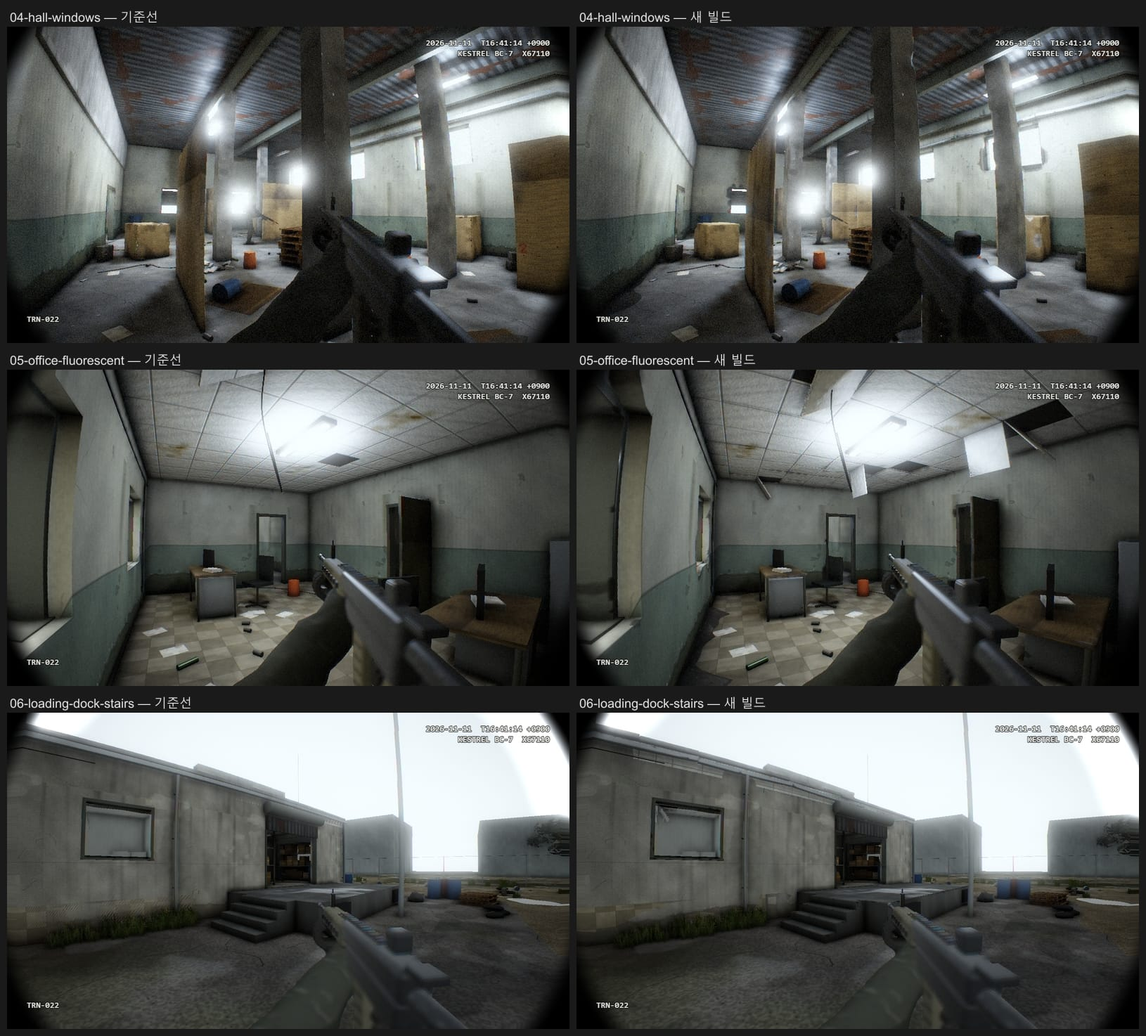
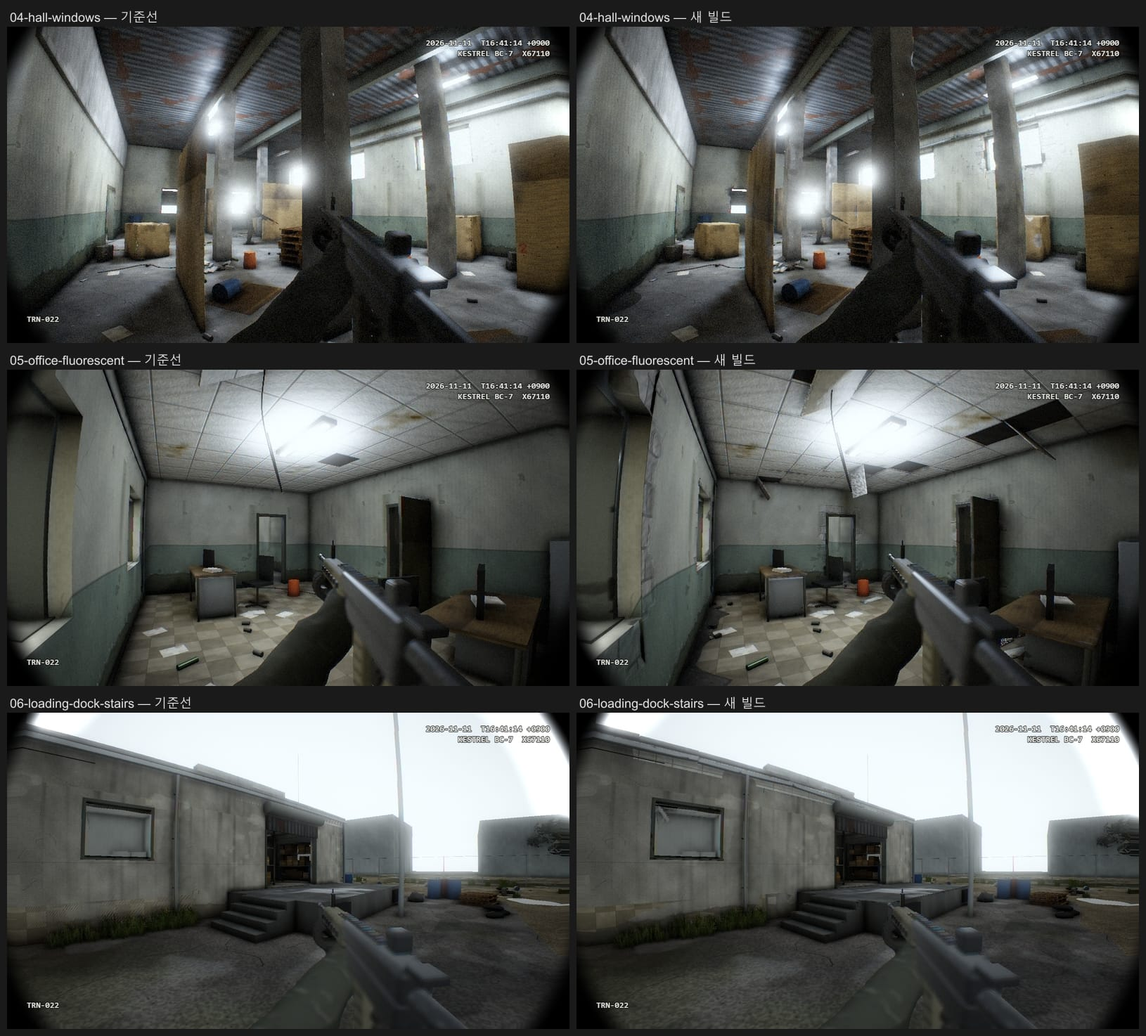
1단계 ② 끝: 파손 규칙(없어진 자리, 드러난 속, 떨어진 것), A/B 73%로 통과 기준 충족, critic 중앙값 4, 전후 시트와 측정값 요약
두 번째 세션. 개구부 둘레의 회벽은 개구부마다 정도가 다르고, 깨진 단면이 비스듬하며, 껍질이 벗겨져 블록이 드러나고, 바닥에 조각이 있다. 늘어진 천장 타일은 뒷면이 어둡고 그림자를 드리운다. 빠진 갓돌은 땅에 떨어져 있다. A/B 라운드 9(묶음 기준선 대비) 쌍별 다수결 73%, 라운드 10(세션 기준선 대비) 63%. critic 18라운드 3, 4, 4 → 4. check 10/10, 성능 목표 충족.

diff --git a/BACKLOG.md b/BACKLOG.md
@@ -11,7 +11,7 @@ CRITIC_LOG.md의 1~14라운드를 분류한 초안을 0단계(2026-11-12)에 CRI
 
 | 종류 | 지적 횟수 | 라운드 | 맡는 묶음 |
 | --- | --- | --- | --- |
-| 형상 | 12 | 4, 5, 6, 7, 9, 10, 12, 13, 14, 15, 16, 17 | 1단계 ② (2026-11-12~13에 형상 도구를 만듦, A/B 67%로 미달. 남은 것은 아래) |
+| 형상 | 12 | 4, 5, 6, 7, 9, 10, 12, 13, 14, 15, 16, 17 | 1단계 ② (2026-11-13 두 번째 세션에서 A/B 73%로 통과 기준 충족. 남은 것은 아래) |
 | 재질 | 11 | 3, 4, 5, 6, 8, 9, 10, 12, 14, 15, 16 | 1단계 ③ |
 | 봇 | 10 | 3, 5, 6, 7, 9, 10, 11, 14, 15, 16 | 2단계 ①, ② |
 | 접지와 빛 | 4 | 3, 7, 8, 12 | 1단계 ① (2026-11-12에 구조를 바꿈. 남은 것은 아래) |
@@ -19,7 +19,7 @@ CRITIC_LOG.md의 1~14라운드를 분류한 초안을 0단계(2026-11-12)에 CRI
 | 나무 | 4 | 3, 6, 13, 15 | 1단계 ④ |
 | 연사 때의 화면 반동 | 5 | 2, 4, 9(촬영 탓), 15, 16 | 2단계 ④ |
 | 총구 화염 | 3 | 7, 10, 12 | 2단계 ④ |
-| 총과 손 | 5 | 1, 2, 15, 16, 17 (16, 17라운드에서 critic 3명 모두의 가장 큰 격차) | 2단계 ③ |
+| 총과 손 | 6 | 1, 2, 15, 16, 17, 18 (16~18라운드에서 critic 3명 모두의 가장 큰 격차) | 2단계 ③ |
 | 원경 | 2 | 14, 15 | 1단계 ④ |
 | 걷는 동안의 화면 움직임 (새 종류) | 1 | 15 | 정해지지 않음 |
 | 성능 끊김 (새 종류) | 3 | 15, 16, 17 | 4단계 ① |
@@ -47,6 +47,12 @@ CRITIC_LOG.md의 1~14라운드를 분류한 초안을 0단계(2026-11-12)에 CRI
   - 굽기에 실패하는 기기(부동소수 렌더 타깃 없음)에서는 가려지지 않은 하늘빛으로 대신한다. 그 화면은 확인하지 않았다(4단계 ②).
 
 ## 형상 (1단계 ②)
+- 1단계 ② 두 번째 세션(2026-11-13)에서 한 것: 파손을 '없어진 자리 + 드러난 속 + 떨어진 것'으로 만드는 규칙. 개구부 둘레의 회벽은 개구부마다 정도(멀쩡함, 보통, 심함)가 다르고, 깨진 단면이 벽 두께 방향으로 비스듬하며, 끝에서부터 껍질이 벗겨져 들어가고, 그 자리에 블록이 드러나고, 밑의 바닥에 회벽 조각과 블록 부스러기가 있다. 늘어진 천장 타일은 뒷면이 어둡고 앞면이 얼룩졌으며 그림자를 드리운다. 빠진 갓돌은 벽 밖 땅에 떨어져 있다.
+- 18라운드와 A/B 라운드 8~10에서 없어진 것: '세 곳이 같은 톱니 모양이고 벽 두께 없이 얇아 종이를 오려 낸 것 같다', '검은 띠', '검은 윤곽선'(라운드 10에서는 세션 기준선 쪽의 문제로 적혔다). '늘어진 천장 타일이 그늘 없는 흰 판으로 떠 있다'(같다). '흰 세로선'(라운드 6부터 없음).
+- 남은 것(두 번째 세션 끝)
+  - 늘어진 천장 타일의 가장자리가 너무 날카로운 평판이다(라운드 9의 판정 1명).
+  - 마당, 하역장 바깥, 실외로 나선 장면은 판정자 모두 '차이를 찾지 못했다'. 바깥 벽과 땅은 이 묶음에서 거의 바뀌지 않았다(바깥 블록 벽에 파손을 넣어 봤지만 미장 무늬에 묻혀 되돌렸다).
+  - 홀 장면에서 합판을 낱장으로 나누면서 붉은 스프레이 숫자가 가려졌을 수 있다(라운드 9에서 기준선이 다수를 얻은 쌍의 근거). 확인하지 않았다.
 - 1단계 ②에서 한 것(2026-11-12~13): 상자를 바로 메시로 만들지 않고 모았다가 형상 도구(src/wear.js)로 한꺼번에 만든다. 드러난 모서리만 닳게 깎고(이 빠짐, 큰 깨짐, 닳은 자리의 밝기), 큰 면에 완만한 굴곡을 주고, 윤곽을 바꾼다: 합판 낱장의 휨과 이음, 갓돌 토막의 들뜸과 빠짐, 홈통과 배관의 처짐, 문짝의 벌어짐, 걸레받이 토막, 소품의 비뚤어짐, 종이 상자의 눌림, 방호벽의 비탈면, 천장 타일의 처짐과 빠짐, 개구부 둘레의 떨어진 회벽, 마당 흙의 솟음과 포장 경계, 벽 밑동의 흙 턱. 구조는 PLAN.md.
 - 17라운드와 A/B 라운드 5~7에서 없어진 것: 지붕선이 자로 그은 듯하다(입구 장면에서 판정자 3명이 새 빌드의 '들뜬 함석, 어긋난 끝선'을 골랐다). 문틀과 창 개구부의 윤곽이 매끈하다(판정자 2명이 '회벽이 두께를 드러내며 떨어져 나간' 새 빌드를 골랐다). 합판이 휨도 이음매도 없는 반듯한 판이다(라운드 5, 6에서 '판 이음매가 보여 실제 판재로 읽힌다'). 천장 격자가 멀쩡해 세트 같다(라운드 6, 7).
 - 남은 것
@@ -89,10 +95,12 @@ CRITIC_LOG.md의 1~14라운드를 분류한 초안을 0단계(2026-11-12)에 CRI
 - 15라운드: 걷는 동안에도 쏘는 동안에도 총이 화면의 같은 자리, 같은 각도에 붙어 있다(critic 3명 모두, 연속 프레임에서). 총과 팔이 손이나 표면 질감이 읽히지 않는 검은 덩어리이고, 정지 화면 11장 전부에서 같은 자리와 같은 각도에 놓여 있다. 레퍼런스는 장갑 낀 손과 총이 카메라와 따로 움직이며 화면 안에서 자리를 크게 바꾼다(ab-judge 판정 1의 공통 격차). 1라운드의 지적이 그대로 남아 있었다.
 - 16라운드: critic 3명 모두 가장 큰 격차로 꼽았다. 총과 팔이 손가락도 흠집도 반사광도 없는 무광 회색의 각진 덩어리이고, 손은 손가락이 나뉘지 않은 덩어리, 소매는 주름 없는 원통이다. 빌드 11칸 모두에서 총구가 화면의 같은 지점(가로 55~60%)에 같은 기울기와 크기로 있다. 레퍼런스는 손과 총이 화면의 삼분의 일 넘게 차지하고, 렌즈 가까이에서 휘거나 흐려지며, 장면마다 자리와 각도가 다르다. ab-judge 9명 모두가 공통 격차에 총과 팔을 적었다.
 - 16라운드에 새로 나온 것: 빛을 바로잡은 뒤로 총이 밝은 회색으로 떠서 플라스틱 모형처럼 보인다(ab-judge 4명). 기준선에서는 검게 묻혀 있었다. 원인은 빛이 아니라 재질 값이다. steel(금속성 0.55)과 worn(0.7)이 중간 회색 금속으로 잡혀 있어 방의 밝기를 그대로 비춘다. 이전에는 실내에서 환경 반사를 0에 가깝게 눌러 가려져 있었다. 실제 소총의 검은 마감은 비금속 도장에 가깝다(반사율 4%쯤, 어두운 바탕). 2단계 ③에서 재질 값을 다시 잡는다. 이번 세션에서는 건드리지 않았다.
+- 18라운드: critic 3명 모두 다시 가장 큰 격차로 꼽았다. 총이 주변보다 밝게 떠 보이고(어두운 실내와 흐린 실외에서 같은 톤), 렌즈 바로 앞인데도 배경과 같은 선명도다. ab-judge 9명(라운드 8~10) 모두 공통 격차로 적었다.
 - 17라운드: critic 3명 모두, ab-judge 6명(라운드 6, 7) 모두 가장 큰 격차 또는 공통 격차로 꼽았다. 칸마다 같은 자리, 같은 각도, 같은 선명도이고, 레퍼런스처럼 렌즈 앞에서 초점이 나가거나 번지거나 화면 가장자리에서 잘리지 않는다. 걷고 돌 때도 8프레임 내내 몇 화소 안에서만 움직인다. 손가락과 장갑이 보이지 않는 매끈한 소매. critic 1명은 '총을 가리면 판정이 어려워지는 칸도 있다'고 적었다.
 - 지금 구현: weapons.js의 절차 모델이다. 둥근 상자와 원기둥을 조합한다. 화면 공간 차폐는 0.7 m보다 가까운 화소를 건너뛰므로 총과 손에는 틈새 음영이 없다.
 
 ## 연사 때의 화면 반동 (2단계 ④)
+- 18라운드: 연사 묶음의 1과 5, 2와 6, 3과 7, 4와 8 프레임의 시점, 총 위치, 탄피 위치가 거의 똑같다(critic 3명 모두, ab-judge 여럿).
 - 16라운드: 연사 묶음의 앞 0.5초와 뒤 0.5초가 섬광, 시점, 총 자세까지 거의 같은 구도로 되풀이된다(critic 1, ab-judge 여럿). 사격 중에도 배경이 거의 튀지 않는다(critic 3). 15라운드의 지적과 같다.
 - 15라운드: 연사 묶음의 두 발사 프레임에서 총 위치와 주황빛이 거의 같아 반동이 되풀이되어 보인다(판정 2). 8장 내내 방아쇠를 누른 새 묶음에서 나온 지적이다.
 - 지적: 연사 때 화면이 거의 움직이지 않는다(2, 4). 연사 후반 프레임에서 시점이 멈춘다(9).

diff --git a/docs/shots/phase1-2-shape/summary.md b/docs/shots/phase1-2-shape/summary.md
@@ -1,34 +1,35 @@
 # 1단계 ② 닳은 모서리와 불규칙한 실루엣을 만드는 형상 도구: 전후 시트와 측정값
 
-2026-11-12~13. 기준선은 세션을 시작할 때의 빌드(커밋 dab4456, 1단계 ①의 끝), 새 빌드는 끝 평가를 받은 커밋 ceb3b51의 빌드다(이 폴더와 함께 커밋된 빌드와 같다). 레퍼런스가 들어간 이미지는 없다.
+2026-11-12~13, 세션 두 번. 기준선은 묶음을 시작할 때의 빌드(커밋 dab4456, 1단계 ①의 끝), 새 빌드는 두 번째 세션의 끝 평가를 받은 커밋 57f53ab의 빌드다(이 폴더와 함께 커밋된 빌드와 같다). 레퍼런스가 들어간 이미지는 없다.
 
 ## 파일
 - `before-after-1.jpg` ~ `4.jpg`: 정지 화면 11장. 왼쪽이 기준선, 오른쪽이 새 빌드다.
 - `before-after-5.jpg` ~ `8.jpg`: 연속 프레임 4묶음(1초 8장). 위가 기준선, 아래가 새 빌드다.
 
 ## 무엇이 달라졌나
-- 상자를 바로 메시로 만들지 않고 모았다가 형상 도구(src/wear.js)로 한꺼번에 만든다. 이웃 상자를 보고 드러난 모서리만 닳게 깎는다(이 빠짐, 큰 깨짐, 깨진 자리의 밝기 변화).
-- 윤곽을 바꾼다: 문과 창 둘레의 회벽이 덩어리째 떨어져 나가 있고, 지붕 갓돌이 들뜨거나 빠져 있고, 홈통과 배관이 처져 있다. 천장 타일은 처지고 몇 장은 빠지거나 매달려 있다. 합판 가림막은 1.22 m 낱장으로 나뉘어 휘어 있고, 문짝은 조금 벌어져 있고, 바닥의 소품은 줄 맞춰 놓이지 않았다. 방호벽은 비탈면이다.
-- 마당 흙은 군데군데 솟고 포장 경계를 덮는다. 벽 밑동에는 흙과 먼지의 턱이 있다.
-- 충돌 상자, 빛 굽기, 무작위 배치는 바뀌지 않았다. 자동 플레이와 봇의 움직임은 기준선과 같다.
+- 상자를 바로 메시로 만들지 않고 모았다가 형상 도구(src/wear.js)로 한꺼번에 만든다. 이웃 상자를 보고 드러난 모서리만 닳게 깎는다.
+- 윤곽: 지붕 갓돌이 들뜨거나 빠져 있고(빠진 것은 땅에 떨어져 있다), 홈통과 배관이 처져 있다. 천장 타일은 처지고 몇 장은 빠지거나 매달려 있거나 바닥에 깨져 있다. 합판 가림막은 낱장으로 나뉘어 휘어 있고, 문짝은 조금 벌어져 있고, 바닥의 소품은 줄 맞춰 놓이지 않았다. 방호벽은 비탈면이다. 마당 흙은 군데군데 솟고 포장 경계를 덮는다. 벽 밑동에는 흙과 먼지의 턱이 있다.
+- 파손(두 번째 세션): 문과 창 둘레의 회벽이 개구부마다 다른 정도로 떨어져 나가 있다. 깨진 단면은 비스듬하고, 끝에서부터 껍질이 벗겨져 들어가 블록이 드러나고, 밑의 바닥에 조각이 흩어져 있다.
+- 충돌 상자, 빛 굽기의 벽, 무작위 배치는 바뀌지 않았다. 자동 플레이와 봇의 움직임은 기준선과 같다.
 
 ## 측정값
-| 항목 | 기준선 | 새 빌드 |
+| 항목 | 기준선 (dab4456) | 새 빌드 (57f53ab) |
 | --- | --- | --- |
 | `npm run check` | 10/10 통과 | 10/10 통과, 종료 코드 0 |
-| 프레임 시간 high (1080p) | 평균 3.56 ms, 95퍼센타일 5.00 ms, 최악 27.1 ms (2026-11-12 22:52) | 평균 3.17 ms, 95퍼센타일 4.50 ms, 최악 8.9 ms (2026-11-13 08:24) |
-| 프레임 시간 medium | 평균 3.37 ms, 95퍼센타일 4.60 ms | 평균 3.00 ms, 95퍼센타일 4.40 ms |
-| 프레임 시간 low | 평균 3.07 ms, 95퍼센타일 4.00 ms | 평균 3.01 ms, 95퍼센타일 4.50 ms, 최악 21.5 ms |
-| 성능 목표 (95퍼센타일 16.7 ms 이하) | 충족 | 충족. RTX 5060 Ti(데스크톱), 헤드리스 D3D11. 두 빌드를 다른 시각에 쟀고 차이는 측정 잡음 안이다. 중급 노트북 GPU에 대해서는 추정이다 |
-| 형상 도구가 만든 삼각형 | 없음(상자 6면) | high 약 92만, medium 72만, low 11만 |
-| 장면별 화소 차이 (기준선 대비, 0~255) | | 0.7 (실외로 나선 장면) ~ 6.2 (사무실). 8 넘게 다른 화소 1.3~16.3% |
+| 프레임 시간 high (1080p) | 평균 3.56 ms, 95퍼센타일 5.00 ms (2026-11-12 22:52) | 평균 2.03 ms, 95퍼센타일 3.50 ms, 최악 10.7 ms (2026-11-13 09:10) |
+| 프레임 시간 medium | 평균 3.37 ms, 95퍼센타일 4.60 ms | 평균 1.92 ms, 95퍼센타일 3.10 ms |
+| 프레임 시간 low | 평균 3.07 ms, 95퍼센타일 4.00 ms | 평균 1.80 ms, 95퍼센타일 2.90 ms |
+| 성능 목표 (95퍼센타일 16.7 ms 이하) | 충족 | 충족. RTX 5060 Ti(데스크톱), 헤드리스 D3D11. 두 빌드를 다른 시각에 쟀고, 같은 빌드도 측정마다 2~3.5 ms를 오가므로 평균의 차이는 측정 잡음 안이다. 중급 노트북 GPU에 대해서는 추정이다 |
+| 형상 도구가 만든 삼각형 | 없음(상자 6면) | high 126만, medium 94만, low 10만 |
+| 장면별 화소 차이 (기준선 대비, 0~255) | | 0.5 (실외로 나선 장면) ~ 6.4 (사무실). 8 넘게 다른 화소 1.2~19% |
 
 ## 판정
 | | 결과 |
 | --- | --- |
-| A/B 라운드 5 (중간 1, 커밋 60fc575) | 쌍별 다수결 47%. 벽 이음의 실틈으로 하늘이 비친 흰 세로선 결함 때문에 진 쌍이 있었다 |
-| A/B 라운드 6 (중간 2, 커밋 0cb67f2) | 쌍별 다수결 43%. 흰 세로선 지적은 사라졌다. 매달린 천장 타일이 흰 판으로 떠 보인다는 지적 |
-| A/B 라운드 7 (끝, 커밋 ceb3b51) | 판정별 50%, 63%, 70%. 합친 비율 61%. **쌍별 다수결 67%** (새 빌드 5쌍, 기준선 0쌍, 갈림·구분 안 됨 10쌍). 통과 기준 70% **미달** |
-| critic 17라운드 | 점수 4, 4, 5 → 중앙값 4 (16라운드 3). 식별 정답률 100%. 가장 큰 격차는 셋 다 총과 팔 |
+| A/B 라운드 5~7 (첫 세션) | 쌍별 다수결 47% → 43% → 67%. 미달 |
+| A/B 라운드 8 (두 번째 세션 중간, 세션 기준선 대비) | 47%. 개구부의 파손이 가벼워진 문이 '깔끔하게 잘린 개구부'로 보였다 |
+| A/B 라운드 9 (끝, 묶음 기준선 대비) | 판정별 77%, 77%, 73%. 합친 비율 76%. **쌍별 다수결 73%** (새 빌드 8쌍, 기준선 1쌍, 갈림·구분 안 됨 6쌍). 통과 기준 70% **충족** |
+| A/B 라운드 10 (끝, 세션 기준선 대비) | 쌍별 다수결 63% (새 빌드 5쌍, 기준선 1쌍) |
+| critic 18라운드 | 점수 3, 4, 4 → 중앙값 4 (16라운드 3, 17라운드 4). 식별 정답률 100%. 가장 큰 격차는 셋 다 총과 팔 |
 
-세션은 시간 상한(01:36)이 먼저 지나 마감했다. 자세한 기록은 PROGRESS.md, CRITIC_LOG.md, BACKLOG.md에 있다.
+자세한 기록은 PROGRESS.md, CRITIC_LOG.md, BACKLOG.md에 있다.

diff --git a/PROGRESS.md b/PROGRESS.md
@@ -323,3 +323,35 @@
 - 파손된 회벽 끝을 0.7 m씩 떼어 4~5 cm 격자로 만들자 회벽 삼각형이 9.7만 개에서 40만 개로 늘었다(전체 92만 → 118만). 떼어 내지 않고 벽 전체를 촘촘하게 하면 약 70만 개가 더 든다고 계산했다. 1080p 프레임 시간은 high 평균 2.13 ms, p95 3.40 ms로 목표 안이다.
 - 바깥 블록 벽(미장)의 개구부에도 같은 파손을 넣어 봤다. 마당과 입구 화면에서 미장 무늬에 묻혀 거의 보이지 않았고 삼각형만 23만 개 늘어서 되돌렸다.
 - 격자선을 정렬하고 너무 가까운 선을 지우는 일을 모든 상자에서 하게 했다가 되돌렸다. 얇은 상자(벽에 붙은 3 mm 철판 등)에서 모서리 가까이의 선이 지워지자, 깎인 모서리의 기운 법선이 판 가운데까지 보간되어 복도 벽의 철판 한가운데에 밝은 반사가 생겼다. 판정자 1명이 "벽의 판이 스스로 빛나는 것처럼 떠 보인다"고 적은 것이 이것이다. 지금은 파손 구역이 있거나 얇지 않은 상자만 지운다.
+
+### 중간 평가 (A/B 라운드 8, 08:56~09:00, 세션 기준선 p1-shape2 대비)
+- 판정별 53%, 47%, 47%. 쌍별 다수결 47%(새 빌드 1쌍, 기준선 2쌍, 갈림·구분 안 됨 12쌍).
+- 시트를 직접 열어 어느 쪽이 새 빌드인지 확인했다(정답 키는 열지 않았다). 이긴 쌍은 사무실이다. 늘어진 타일이 줄고, 남은 것은 뒷면이 어둡고 앞면이 얼룩져 '광원 위치와 맞는다'는 근거였다. 진 두 쌍은 문간과 복도의 문이다. 파손 정도를 개구부마다 달리하면서 그 문들이 '보통'이 되어 깊게 떨어진 덩어리가 줄었고, 판정자는 기준선의 '불규칙하게 떨어져 나간 회벽'을 골랐다.
+- 그래서 바꾼 것: 정도의 분포를 무겁게 했다(멀쩡함 15%, 보통 30%, 심함 55%). 판정 시트 크기에서 읽히는 것은 깊게 떨어진 덩어리이고, 1~2 cm 껍질 벗겨짐은 거의 읽히지 않는다. 껍질 벗겨짐은 개구부 끝에 붙어서 안쪽으로 벗겨져 들어가게 바꿨다(벽 가운데 떨어진 얼룩은 만들지 않는다). 드러난 블록의 줄눈을 블록보다 어둡게 했다(밝은 줄눈은 타일 격자처럼 보였다).
+- 이 평가에서 판정자 1명이 '벽의 판이 스스로 빛나는 것처럼 떠 보인다'고 적은 것은 형상 도구의 결함이었다(위 '구현 중 확인한 것').
+
+### 끝 평가 (09:12~09:19, 평가받은 빌드는 커밋 57f53ab)
+- `npm run check`: 10/10 통과(09:20, 마지막 보고에 출력을 붙였다).
+- `npm run perf`(판정자를 부르기 전, 09:10): high 평균 2.03 ms, p95 3.50, 최악 10.70. medium 1.92, 3.10, 6.80. low 1.80, 2.90, 6.30. 목표 충족. 데스크톱 GPU(RTX 5060 Ti)에서 잰 값이라 중급 노트북 GPU에서의 충족은 추정이다. 지난 세션 끝(high 3.17 ms)보다 평균이 낮은 것은 측정 사이의 차이다(같은 빌드도 측정마다 2~3.5 ms를 오간다).
+- 형상 도구 삼각형: high 126만, medium 94만, low 10만(지난 세션 끝 92만, 72만, 11만).
+- A/B 라운드 9(묶음 기준선 p1-shape 대비, 통과 기준): 판정별 77%, 77%, 73%, 합친 비율 76%, **쌍별 다수결 73%**(새 빌드 8쌍, 기준선 1쌍, 갈림·구분 안 됨 6쌍).
+- A/B 라운드 10(세션 기준선 p1-shape2 대비): 판정별 67%, 63%, 60%, 쌍별 다수결 63%(새 빌드 5쌍, 기준선 1쌍).
+- critic 18라운드: 3, 4, 4 → 중앙값 4(17라운드와 같다). 식별 정답률 100%. 가장 큰 격차는 셋 다 총과 팔.
+
+### 결과
+- 통과 기준(묶음 기준선 대비 A/B ≥ 70%): **충족**(73%). check 10/10, 성능 목표 충족. 세션 시작 08:41, 끝 09:25(상한 12:41 안).
+- 이번 세션에 바꾼 것: 형상 도구의 파손 규칙(없어진 자리 + 드러난 속 + 떨어진 것)과 그 규칙을 쓰는 곳(개구부 둘레, 늘어진 천장 타일, 빠진 갓돌). 지난 세션의 두 지적('종이를 오려 낸 듯한 개구부', '그늘 없는 흰 판')은 라운드 10에서 새 빌드를 고르는 근거로 뒤집혔다.
+- 단계의 승인은 사용자가 한다. 1단계 ③으로 넘어갈지는 ROADMAP.md의 표를 고칠 때 정해진다.
+
+### 제안 (SPEC.md, ROADMAP.md, PLAYTEST.md, .claude/는 고치지 않았다)
+1. 지난 세션의 제안 1(형상과 재질처럼 작은 변화는 판정 시트 크기에서 보이지 않으니 가까이 찍은 장면을 A/B에 더하자)은 그대로 유효하다. 이번 세션에서도 판정자가 고른 근거는 화면에서 수십 화소 이상인 변화(벽돌이 드러난 자리, 바닥의 부스러기, 늘어진 타일)뿐이었다. 1단계 ③(재질)의 노멀·거칠기 맵은 이보다 작은 변화라 지금 시트로는 신호가 거의 나오지 않을 것으로 본다.
+2. 총과 팔이 16~18라운드 내내 critic 3명 모두의 가장 큰 격차다. 1단계 ③, ④보다 2단계 ③(손과 총)을 먼저 하면 critic 점수가 움직일 가능성이 크다(1단계 ①의 제안 1과 같다).
+
+### 다음 세션이 알아둘 것
+- 파손 규칙은 level.js의 erodeWarp(없어진 자리와 껍질 벗겨짐, coreAt), zoneSev(개구부마다 정도), rubble(떨어진 조각)이 맡는다. 드러난 속은 aWear 6.5로 표시하고 materials.js가 1.2보다 큰 값을 블록 무늬로 칠한다. 닳음 표시는 -2~1 범위를 지켜야 한다(넘으면 드러난 속과 섞인다).
+- 바깥 블록 벽(미장)의 개구부에는 파손을 넣지 않았다(미장 무늬에 묻혀 보이지 않고 삼각형만 23만 개 늘었다).
+- 얇은 상자에서 격자선을 지우면 깎인 모서리의 법선이 판 가운데까지 번져 밝은 반사가 생긴다. 격자선 정리는 파손 구역이 있거나 얇지 않은 상자만 한다.
+- 남은 지적: 늘어진 천장 타일의 가장자리가 너무 날카로운 평판이다(라운드 9의 판정 1명). 홀 장면에서 합판을 낱장으로 나누면서 붉은 스프레이 숫자가 가려졌을 수 있다(라운드 9에서 기준선이 다수를 얻은 유일한 쌍의 근거). 확인하지 않았다.
+
+### 끝난 시각
+- 2026-11-13 09:25

diff --git a/CRITIC_LOG.md b/CRITIC_LOG.md
@@ -106,3 +106,25 @@
 
 - 점수 중앙값이 3에서 4로 올랐다. 세 critic 모두 가장 큰 격차로 총과 팔을 꼽았다(16라운드와 같다). 판정 1은 '총을 가리면 판정이 어려워지는 칸도 있다'고 적었다. 식별 정답률은 100%로 그대로다.
 - 측정값에 대해 새로 나온 것: 탄피가 콘크리트에 떨어지는 소리의 에너지가 4 kHz 대역 하나에 몰려 순음에 가깝고, 금속 바닥 발소리에 4 kHz 이상 성분이 거의 없다(critic 2명). low 품질 실행에서 21.5 ms짜리 프레임이 한 번 있다(critic 2명). 프레임 시간이 데스크톱 GPU에서 잰 값이라 노트북 목표에는 추정치라는 지적(critic 3명)은 16라운드와 같다.
+
+## 1단계 ② 두 번째 세션 (2026-11-13)
+통과 기준은 묶음의 기준선 'p1-shape' 대비 쌍별 다수결 70%. 세션 기준선은 'p1-shape2'(커밋 ceb3b51, 지난 세션의 끝)다. 시작 평가는 17라운드와 A/B 라운드 7을 그대로 쓴다.
+
+### A/B
+| A/B 라운드 | 시점 | 비교 | 판정별 새 빌드 선호 | 합친 비율 | 쌍별 다수결 | 메모 |
+| --- | --- | --- | --- | --- | --- | --- |
+| 8 | 중간 (커밋 '작업 저장 8') | 세션 기준선 p1-shape2 대 새 빌드 | 53%, 47%, 47% | 49% (45개 중 새 빌드 6, 기준선 7, 구분 안 됨 32) | 47% (새 빌드 1쌍, 기준선 2쌍, 구분 안 됨·갈림 12쌍) | 15쌍 중 12쌍이 '구분 안 됨'(바뀐 장면이 적다). 새 빌드가 이긴 쌍은 사무실(늘어진 타일이 그늘지고 얼룩져 광원과 맞는다). 진 쌍은 문간과 복도: 개구부마다 파손 정도를 달리하면서 그 두 문이 '보통'이 되어 '깔끔하게 잘린 개구부'로 보였다. 판정 1명은 문짝 옆의 '흐린 육각형 얼룩'(벽 가운데 떨어진 껍질 벗겨짐)을 적었다 |
+| 9 | 끝 (커밋 57f53ab) | 묶음 기준선 p1-shape 대 새 빌드 | 77%, 77%, 73% | 76% (45개 중 새 빌드 25, 기준선 2, 구분 안 됨 18) | **73%** (새 빌드 8쌍, 기준선 1쌍, 구분 안 됨·갈림 6쌍) | 통과 기준(70%) **충족**. 근거는 모두 표면의 낡음과 손상이었다: 문과 창 둘레의 회벽이 떨어져 벽돌이 드러남, 바닥의 잔해, 빠지고 매달린 천장 타일, 들쭉날쭉한 지붕 끝선, 합판의 이음매, 벗겨진 벽. 기준선 쪽이 다수를 얻은 1쌍은 홀 장면으로 보인다(근거: 합판의 붉은 스프레이 숫자). 연속 프레임의 움직임과 노출은 세 판정 모두 '같다' |
+| 10 | 끝 (커밋 57f53ab) | 세션 기준선 p1-shape2 대 새 빌드 | 67%, 63%, 60% | 63% (45개 중 새 빌드 15, 기준선 3, 구분 안 됨 27) | 63% (새 빌드 5쌍, 기준선 1쌍, 구분 안 됨·갈림 9쌍) | 이번 세션의 변경만 견준 값(통과 기준으로 쓰지 않는다). 근거: 개구부 둘레가 '벽돌 줄을 따라 계단처럼 깨지고' 바닥에 부스러기가 있다(세션 기준선 쪽은 '매끈한 곡선 구멍에 검은 테두리, 오려 붙인 것 같다'), 늘어진 천장 타일이 어둡고 질감이 있다(기준선 쪽은 '흰 판이 공중에 떠 있다'), 가까운 벽의 회벽이 벗겨져 있다, 총구 섬광이 문틀 전체가 아니라 총구 가까이만 물들인다. 지난 세션의 두 지적이 근거로 뒤집혔다 |
+
+- 라운드 9(묶음 기준선 대비)에서 판정자 3명이 모두 70%를 넘겼고(77%, 77%, 73%) 기준선 쪽을 고른 판정은 45개 중 2개였다. 지난 세션의 끝(라운드 7, 67%)과 비교하면 '구분 안 됨'이 27개에서 18개로 줄었다.
+- 라운드 10에서 판정자들이 고른 쌍은 모두 B 자리였다(합쳐 18개). 쌍마다 A/B 자리는 무작위로 정해지므로 드문 일이지만, 판정의 근거가 쌍마다 구체적이고 서로 일치해서 자리 쏠림으로 보지 않았다. 영점 확인 기준(15쌍 중 12쌍 이상 한쪽)에는 걸리지 않는다(최대 5쌍).
+
+### 비교 시트 (critic, 두 번째 세션)
+| 라운드 | 날짜 | 빌드 | 점수 3개 → 중앙값 | 식별 정답률 3개 → 중앙값 | A/B 새 빌드 선호 | 가장 큰 격차 (판정별) |
+| --- | --- | --- | --- | --- | --- | --- |
+| 17 (시작, 지난 세션의 끝을 그대로 씀) | 2026-11-13 | ceb3b51 | 4, 4, 5 → 4 | 100% | 67% (라운드 7) | 총과 팔 (위 표) |
+| 18 (끝) | 2026-11-13 | 57f53ab | 3, 4, 4 → **4** | 100%, 100%, 100% → 100% (19칸: 빌드 11, 레퍼런스 8) | 73% (라운드 9, 묶음 기준선 대비) | ① 총과 팔이 카메라 앞의 물체가 아니라 같은 자세의 1인칭 무기 모델로 보인다 ② 밝은 회색의 디테일 적은 소총과 손가락 없는 손이 늘 같은 자리, 같은 각도 ③ 장난감 같은 단색 저폴리 총과 손이 늘 같은 자리, 같은 자세 |
+
+- 점수 중앙값은 4로 그대로다. 세 critic 모두 가장 큰 격차로 총과 팔을 꼽았다(16, 17, 18라운드 연속). critic은 가장 큰 격차 하나를 적으므로, 공간의 변화는 이 점수에 나타나지 않는다. 같은 장면을 나란히 놓은 A/B가 그 변화를 잰다.
+- 연사 묶음의 앞 4프레임과 뒤 4프레임이 거의 똑같이 되풀이된다는 지적이 critic 3명 모두에게서 나왔다(2단계 ④).

diff --git a/PLAN.md b/PLAN.md
@@ -21,12 +21,13 @@
   - 면: 회벽, 콘크리트, 철판의 큰 면에 월드 좌표 잡음으로 완만한 굴곡을 준다(가장자리에서 0). 닳은 자리는 꼭짓점 속성 aWear로 표시하고 재질 셰이더가 밝기를 바꾼다(양수는 밝게, 음수는 어둡게).
   - 묻힌 면: 다른 상자에 완전히 가려진 면은 사각형 한 장으로 남긴다. 아예 빼면 앞면의 실틈으로 벽 너머 하늘이 비친다.
   - 윤곽: 상자를 휘게 하는 함수(spec.warp, 국소 좌표를 받아 옮긴다)로 넣는다. 개구부에 닿은 회벽 끝은 덩어리째 떨어져 나가 있다(level.js의 erodeWarp. wallX와 wallZ가 상자에 개구부 구역 erode를 적어 둔다). 합판은 1.22 m 낱장으로 나뉘어 휘고 기울고, 갓돌은 토막으로, 홈통과 배관은 처진 토막으로 나뉜다(Level.splitSpec). 방호벽은 비탈면으로, 종이 상자는 눌린 모양으로 휜다. 바닥의 소품은 조금씩 돌아가고 기운다.
+  - 파손: '없어진 자리 + 드러난 속 + 떨어진 것'으로 만든다. 개구부에 닿은 회벽 끝은 level.js의 erodeWarp가 깊게 떨어진 덩어리(벽 두께 방향으로 비스듬한 단면)와 끝에서부터 벗겨져 들어간 껍질(1~2 cm)을 만들고, 그 자리를 coreAt으로 알린다(aWear 6.5 → 재질 셰이더가 1.2보다 큰 값을 줄눈 있는 블록 무늬로 칠한다). 정도는 개구부마다 zoneSev가 정한다. 파손된 끝은 splitSpec이 0.7 m씩 떼어 4~5 cm 격자로 만든다(parentBox로 나머지를 막힌 것으로 보고, skip으로 이음 면을 빼서 홈이 생기지 않는다). Level.rubble이 바닥에 조각을 둔다. 빠진 갓돌은 땅에 떨어져 있고, 늘어진 천장 타일은 뒷면이 어둡고 빛 굽기에 들어간다.
   - 땅: 마당의 흙은 대부분 평평하고 군데군데 낮게 솟는다(WearTool.groundRise). 포장이나 물건에 덮인 자리는 솟지 않고 그 가장자리로 흙이 넘어온다. 포장은 반듯한 판이다. 벽 밑동에는 흙과 먼지의 턱이 있다(WearTool.fillet).
   - 천장: ceilingTiles가 타일마다 처짐과 기울기를 다르게 만든다. 빠진 타일(Level.tileHoles와 여든 장에 하나)의 자리에는 어두운 속이 보이고, 타일은 한쪽에 걸려 늘어져 있거나 바닥에 깨져 있다.
   - 텍스처 좌표는 위치를 타일 크기로 나눈 값이다. 둥근 상자였던 것(obox의 round)은 면 하나에 텍스처 한 장을 편다.
   - 새 재질을 닳게 하려면 level.js의 WEAR_KEYS에 재질 키와 닳는 방식을 더한다. 여러 상자가 붙어 하나를 이루는 것(계단)은 PROP_KEYS에 넣지 않는다.
   - 충돌 상자와 빛 굽기용 형상은 반듯한 상자 그대로다. 무작위 배치가 달라지지 않도록 난수를 쓰는 횟수를 바꾸지 않는다(새 변형은 위치의 해시로 정한다).
-  - 품질: high 약 92만 삼각형. medium과 low는 격자 간격을 1.5배, 2.4배로 넓힌다. low는 작은 것을 반듯한 상자로 두고 모서리만 깎으며 윤곽 변형을 하지 않는다.
+  - 품질: high 약 126만 삼각형(그중 파손된 회벽 끝이 약 33만). medium과 low는 격자 간격을 1.5배, 2.4배로 넓힌다. low는 작은 것을 반듯한 상자로 두고 모서리만 깎으며 윤곽 변형을 하지 않는다.
   - 점검: `node scripts/peek.mjs <시점>`이 삼각형 수, 닳음 표시 비율, 법선이 면의 방향과 어긋난 삼각형 수를 찍는다. `npm run ab -- diff <기준선>`은 장면별 화소 차이를 찍는다. 비슷한 두 화면은 눈으로 보지 말고 수치로 비교한다.
 - 텍스처는 캔버스로 절차 생성(콘크리트, 회반죽, 벗겨진 페인트, 물자국, 녹). 월드 좌표 기반 얼룩 변조로 반복 무늬를 깬다.
 
